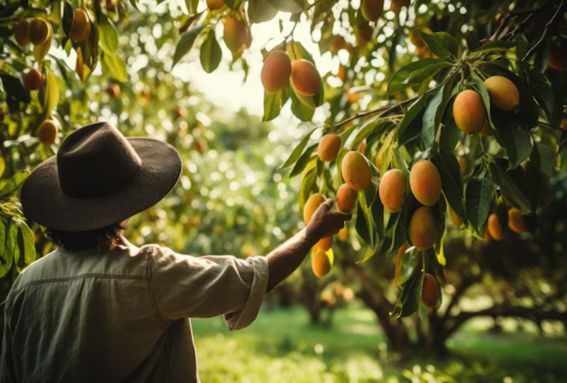
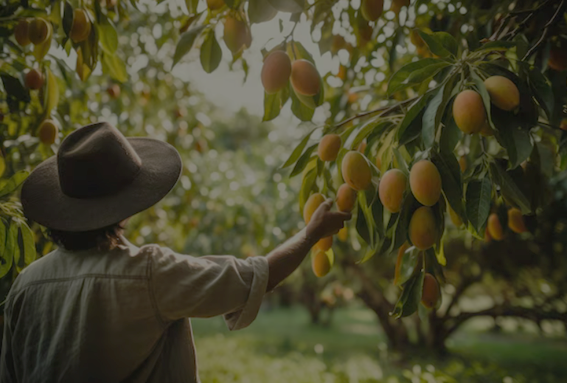
Project Start

diff --git a/nosotros.html b/nosotros.html
@@ -9,6 +9,8 @@
 </head>
 <body>
     <main>
+        <div class="showcase"></div>
+        
         <div class="container__cards">
                  
             <div class="card">
